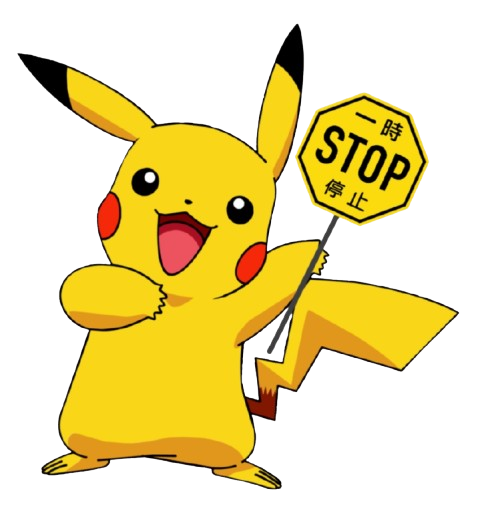
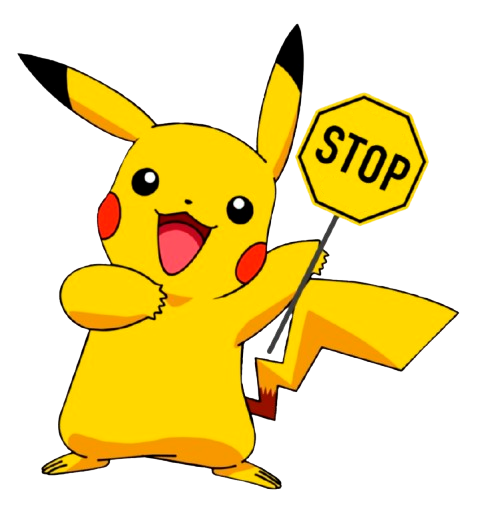
pikachu is no more chinese anymore
y borre 2 imágenes que no se porque estaban que no sumaban nada

Changed region(s): [[0.1235, 0.1248, 0.9259, 0.9669], [0.4012, 0.2495, 0.4938, 0.2807], [0.3395, 0.2183, 0.4012, 0.2495]]

diff --git a/pokebox/src/app/componentesPokemon/menu-principal/pagina-logueo/pagina-logueo.component.html b/pokebox/src/app/componentesPokemon/menu-principal/pagina-logueo/pagina-logueo.component.html
@@ -26,7 +26,7 @@
 
     <label for="">Contraseña:</label>
 
-    <input type="password" formControlName="Password" placeholder="password" >
+    <input type="password" formControlName="Password" placeholder="password">
     @if (formulario.controls['Password'].getError('required')&&formulario.controls['Password'].touched) {
 
     <p class="Error">Se debe llenar el campo requerido</p>
@@ -55,7 +55,8 @@
   }
 
   @if (isFormLoginShowing) {
-  <form class="formularioRegistro" [formGroup]="formulario" (ngSubmit)="checkLoggedUsuario()" (keydown.enter)="checkLoggedUsuario()">
+  <form class="formularioRegistro" [formGroup]="formulario" (ngSubmit)="checkLoggedUsuario()"
+    (keydown.enter)="checkLoggedUsuario()">
 
     <label for="usuario">Usuario:</label>
     <input type="text" value="''" formControlName="Username" placeholder="example@gmail.com" id="usuario">
@@ -95,33 +96,25 @@
     <button class="Confirmar" (click)="checkLoggedUsuario()">Confirmar</button>
   </div>
   }
-@if(isFormForgotPasswordShowing)
-{
+  @if(isFormForgotPasswordShowing)
+  {
 
-<form class="formOlvideContraseña" [formGroup]="formulario">
+  <form class="formOlvideContraseña" [formGroup]="formulario">
+    <p class="titulo">¿olvidaste tu contraseña?</p>
 
+    <p class="subtitulo">ingrese su correo electronico para crear una contraseña nueva</p>
+    <input type="text" value="''" formControlName="Username" placeholder="example@gmail.com">
 
-
-  <p class="titulo">¿olvidaste tu contraseña?</p>
-
-  <p class="subtitulo">ingrese su correo electronico para crear una contraseña nueva</p>
-  <input type="text" value="''" formControlName="Username" placeholder="example@gmail.com">
-
-  @if (validadorMensajeEspecifico) {
+    @if (validadorMensajeEspecifico) {
 
     <p class="mensaje">{{mensajeEspecifico}}</p>
 
+    }
+  </form>
+
+  <div class="botones">
+    <button class="SalirRegistro" (click)="btVolver()">Volver</button>
+    <button class="Confirmar" (click)="btEnviarGmail()">Enviar</button>
+  </div>
   }
-
-</form>
-
-<div class="botones">
-  <button class="SalirRegistro" (click)="btVolver()">Volver</button>
-  <button class="Confirmar" (click)="btEnviarGmail()">Enviar</button>
-</div>
-
-
-}
-
-
 </div>

diff --git a/pokebox/src/app/componentesPokemon/perfil/perfil.component.html b/pokebox/src/app/componentesPokemon/perfil/perfil.component.html
@@ -80,9 +80,6 @@
     </div>
   }
 
-
-
-
 <!-- Modal para confirmar la eliminación de cuenta -->
   @if (isDeleteShowing) {
     <div class="delete-confirmation">

diff --git a/pokebox/src/app/componentesPokemon/recuperar-contra/recuperar-contra.component.html b/pokebox/src/app/componentesPokemon/recuperar-contra/recuperar-contra.component.html
@@ -6,8 +6,6 @@
   @if (isMessageShowing) {
 
     <p>{{message}} </p>
-
-
   }
 
   <button (click)="onSubmit()">Restablecer</button>
